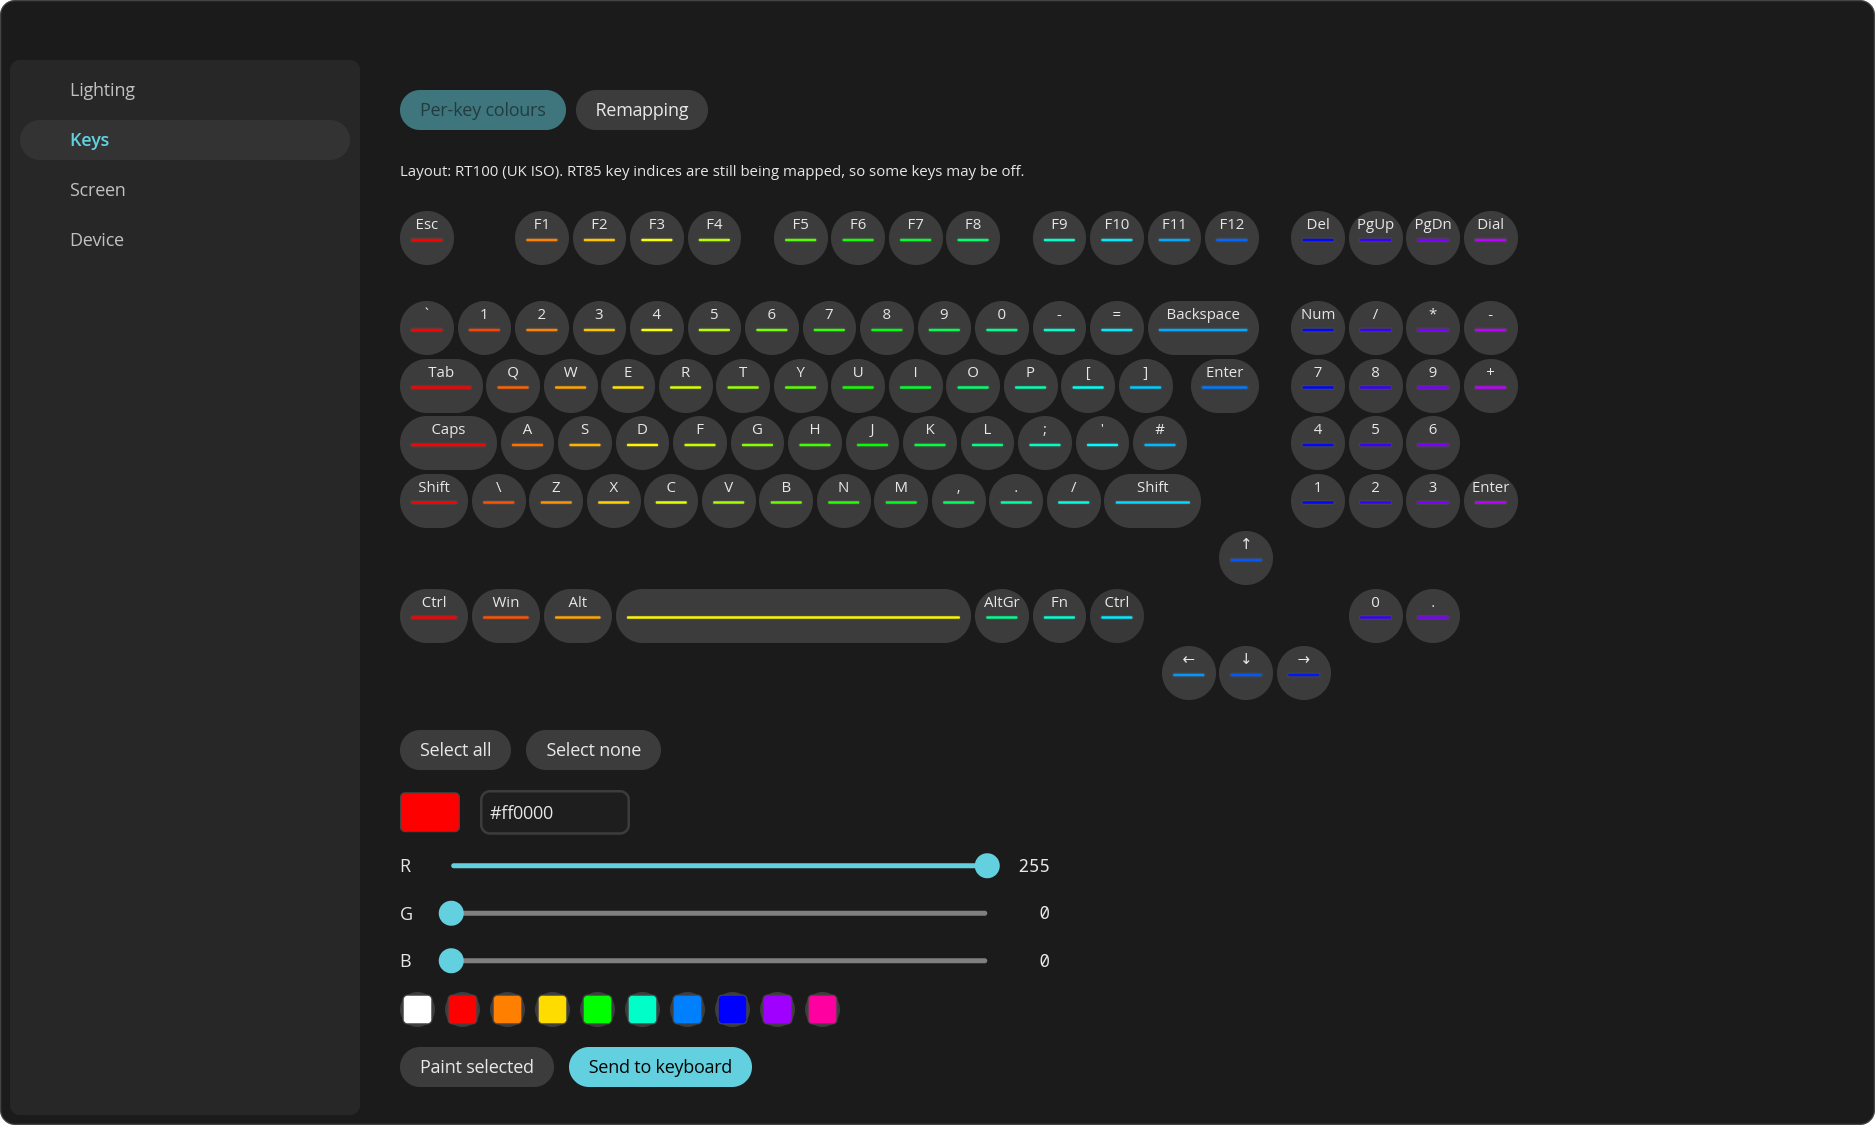
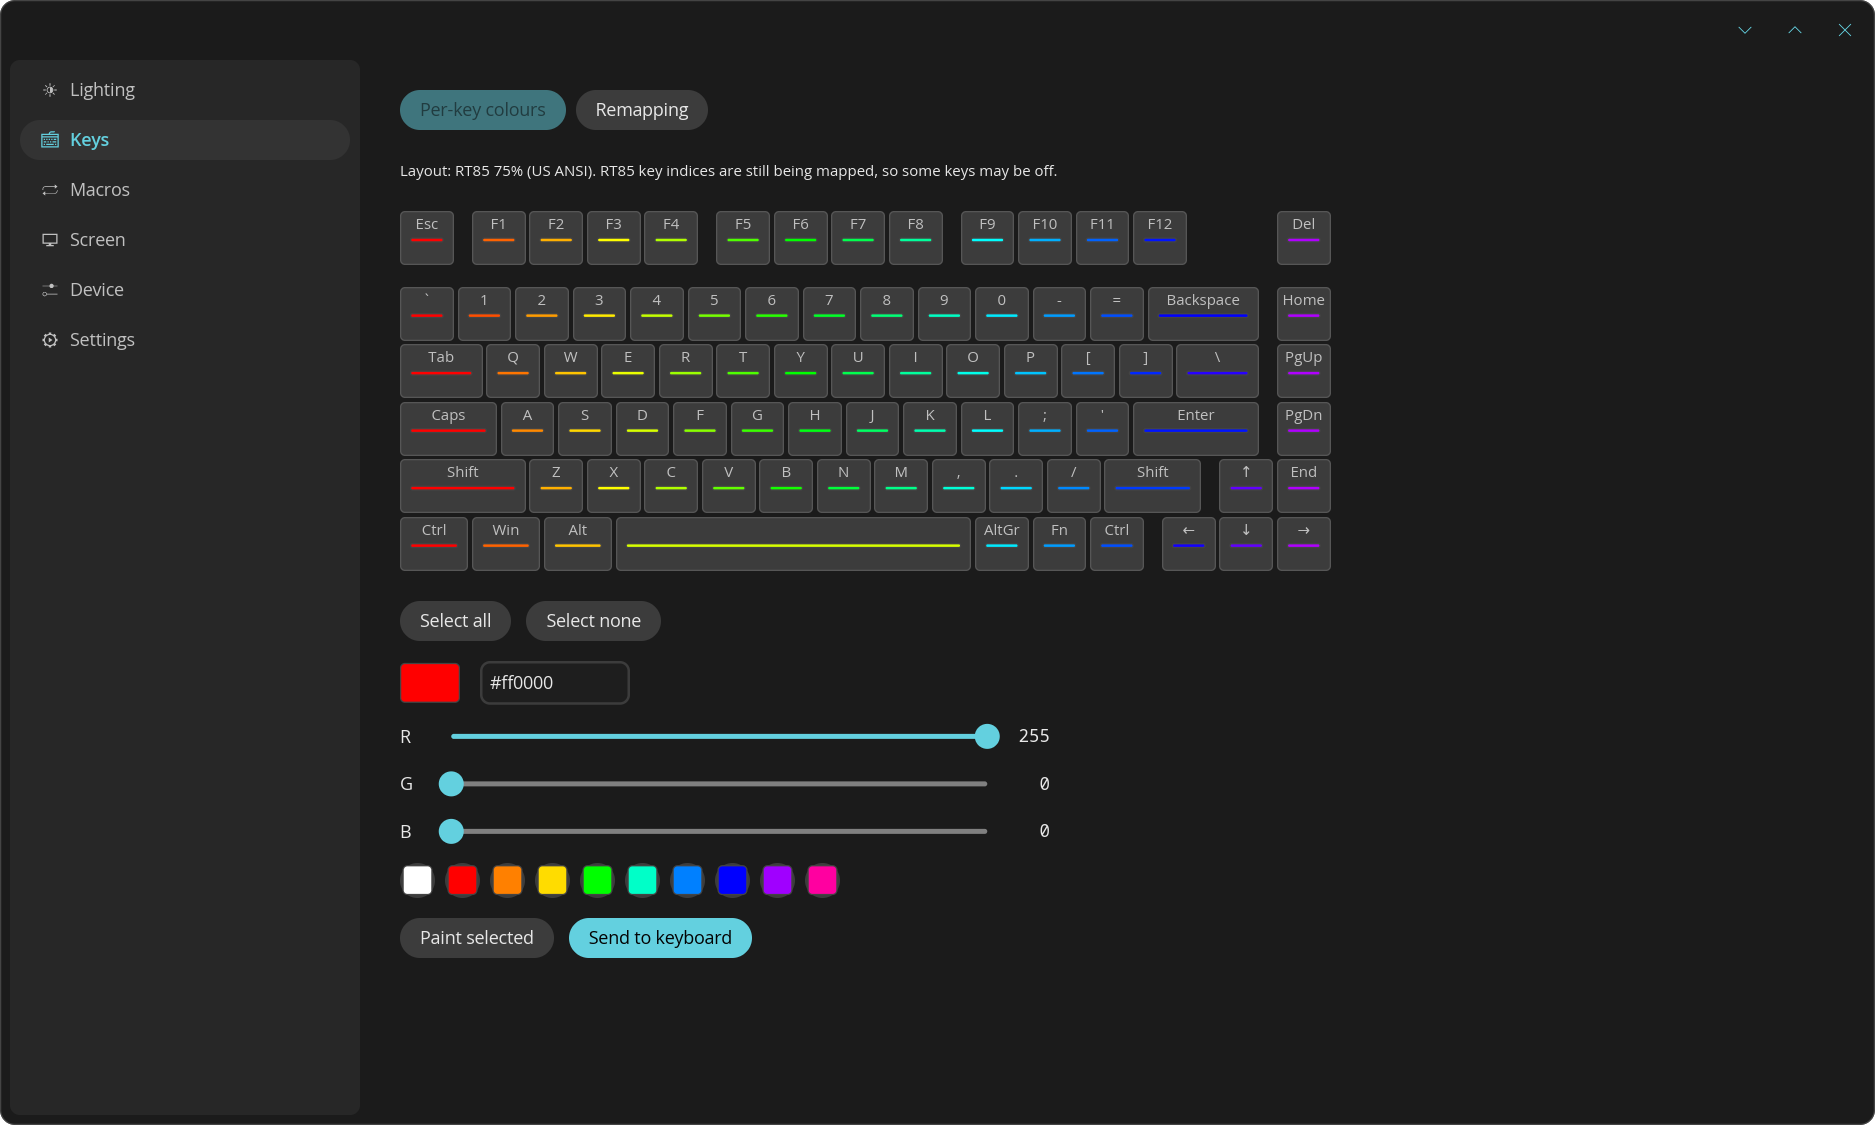
Update screenshots for 0.2.0: RT85 board, macros, settings, live screen

diff --git a/crates/rt85-gui/src/live/card.rs b/crates/rt85-gui/src/live/card.rs
@@ -238,8 +238,8 @@ mod tests {
         let dir = PathBuf::from(std::env::var("RT85_CARD_DIR").unwrap_or_else(|_| "target/cards".into()));
         std::fs::create_dir_all(&dir).unwrap();
         let media = NowPlaying {
-            title: "A fairly long song title that will not fit".into(),
-            artist: "Some Artist".into(),
+            title: "Midnight Drive (Extended Mix)".into(),
+            artist: "Neon Coast".into(),
             art_url: std::env::var("RT85_CARD_ART").ok(),
             length: Some(Duration::from_secs(213)),
             position: Some(Duration::from_secs(83)),
@@ -247,7 +247,7 @@ mod tests {
         };
         let paused = NowPlaying { playing: false, art_url: None, ..media.clone() };
         let fps = Reading { fps: 144, game: "Cyberpunk2077".into() };
-        let accent = [233, 100, 58];
+        let accent = [99, 208, 223];
         for (name, m, f) in [
             ("media", Some(&media), None),
             ("paused-noart", Some(&paused), None),

diff --git a/README.md b/README.md
@@ -20,11 +20,17 @@
 
 <sub>Taken in demo mode (`RT85_DEMO=1`), which simulates a connected keyboard.</sub>
 
-| Lighting | Per-key colours |
+| Lighting | Per-key colours (RT85 75%) |
 |---|---|
-| ![Lighting page: effect mode, speed, brightness, direction and colour](docs/screenshots/lighting.png) | ![Keys page: clickable keyboard with a rainbow of per-key colours](docs/screenshots/keys.png) |
-| **Screen** | **Device** |
-| ![Screen page: image preview, upload, clock and CPU/temperature widgets](docs/screenshots/screen.png) | ![Device page: connected keyboard, platform and capabilities](docs/screenshots/device.png) |
+| ![Lighting page: effect mode, speed, brightness, direction and colour](docs/screenshots/lighting.png) | ![Keys page: the RT85's 75% board with square keycaps and a rainbow of per-key colours](docs/screenshots/keys.png) |
+| **Macros** | **Screen** |
+| ![Macros page: a list of macros, each assigned to a key, with key, text and delay steps](docs/screenshots/macros.png) | ![Screen page: image preview, upload, clock, CPU/temperature widgets and live screen](docs/screenshots/screen.png) |
+| **Settings** | **Device** |
+| ![Settings page: keyboard layout, colour scheme and frosted glass](docs/screenshots/settings.png) | ![Device page: connected keyboard, platform and capabilities](docs/screenshots/device.png) |
+
+**Live screen:** what the keyboard's screen shows for now playing, now playing + FPS, and game FPS.
+
+![Three rendered screen images: a now-playing card with cover art, title, artist and time bar; the same with an FPS badge; and a large FPS counter](docs/screenshots/live-screen.png)
 
 ## Features
 
